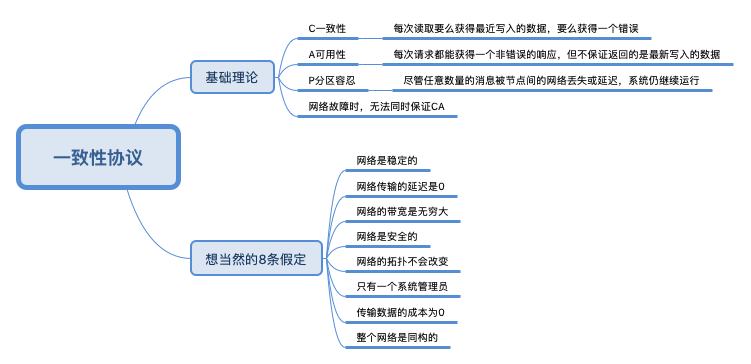
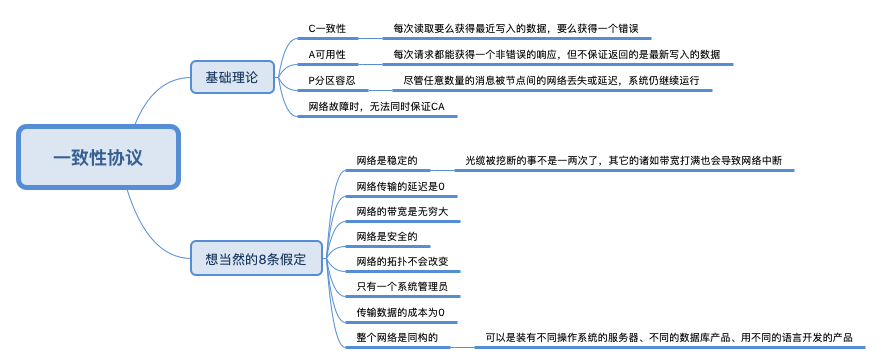
[fix]add doc

diff --git a/_posts/Technology/Distribute/2018-09-27-consistency_protocol.md b/_posts/Technology/Distribute/2018-09-27-consistency_protocol.md
@@ -48,7 +48,7 @@ keywords: 一致性协议
 1. 不是所有的分布式系统都有 cap问题，必须interconnected 和 share data。比如一个简单的微服务系统 没有shar data，便没有cap 问题。
 2. 强调了write/read pair 。这跟上一点是一脉相承的。cap 关注的是对数据的读写操作，而不是分布式系统的所有功能。
 
-## 一致性理论
+## 一致性理论——CAP
 
 以下来自对两个付费专栏的整理
 
@@ -57,8 +57,6 @@ keywords: 一致性协议
 ![](/public/upload/distribute/cap.PNG)
 
 ![](/public/upload/distribute/cap_2.png)
-
-![](/public/upload/distribute/cap_3.PNG)
 
 ### 从0到1学架构
 
@@ -174,19 +172,6 @@ tips
 
 两个算法对cap的侧重有所不同
 
-## 分布式系统中最容易被忽视的六大“暗流”
-
-2018.12.2 补充
-
-[分布式系统中最容易被忽视的六大“暗流”](https://mp.weixin.qq.com/s?__biz=MjM5MDE0Mjc4MA==&mid=2651011259&idx=1&sn=fff6663f391ae5cfc175dceeecb67829&chksm=bdbec0e88ac949fe0cf893306a0a61f27f0355d71a61927bfafb223a6663825c4b27e8a070d4&mpshare=1&scene=23&srcid=1202RkLFVYCNUXsR31Wrdvpq%23rd)
-
-1. 网络并不是可靠的，光缆被挖断的事件相信你也看到过不是一两次了，其它的诸如带宽打满 也会导致网络中断
-2. 不同节点之间的通信是存在延迟的。由此可得，并不是将一个集中式系统拆分得越散，系统就越快。当中存在的延迟，不容忽视。如果是基于提速为目的的拆分，必须支持并行处理。
-3. 带宽是有上限的
-4. 分布式并不直接意味着是“敏捷”了,拆分后需要做的额外工作（比如：监控告警系统、配置中心、服务发现，以及批量部署、持续集成，甚至 DevOps 等）如果没做好，可能会导致不是更快，而是更慢。
-5. 数据由一份冗余成多份后如何保持一致。由第二点导致。这个概念在软件领域被定义为「数据一致性」。
-6. 整个系统的不同部分可能是异构的。可以是装有不同操作系统的服务器、不同的数据库产品、用不同的语言开发的产品等等。你要思考如何通过专制的方式进行标准化，来屏蔽这些差异带来的复杂度影响，使得有更多的精力投入到有价值的地方去。
-	
 
 ## 从容错性强弱的角度来串一下一致性协议
 

diff --git a/_posts/Technology/Distribute/2018-04-16-learn_distributed_system.md b/_posts/Technology/Distribute/2018-04-16-learn_distributed_system.md
@@ -93,9 +93,6 @@ keywords: 分布式系统
 2. 有的计算 逻辑在一个节点即可执行完毕，比如不涉及分区的spark rdd，或分布式运行一个shell。有的计算逻辑则 拆分到不同节点，比如storm和mapreduce，“分段”执行。此时系统就要做好 调度和协调。
 3. 分布式系统，总是要涉及到输入源数据的读取、数据在节点间流转、将结果写到输出端。
 
-## 学习分布式的正确姿势（old）
-
-2018.7.16 补充 [漫谈分布式系统、拜占庭将军问题与区块链](http://zhangtielei.com/posts/blog-consensus-byzantine-and-blockchain.html) 作者阐述了分布式系统的核心问题和概念，沿着逻辑上前后一贯的思路，讨论了区块链技术。推荐阅读。
 
 ### 不要沉迷与具体的算法
 
@@ -105,29 +102,5 @@ My response of old might have been “well, here’s the FLP paper, and here’s
 
 也就是说，具体学习某一个分布式算法用处有限。一个很难理解，一个是你很难  place them in contex（它们在解决分布式问题中的作用）。
 
-## 分布式知识体系
 
-[distributed-systems-theory-for-the-distributed-systems-engineer](http://the-paper-trail.org/blog/distributed-systems-theory-for-the-distributed-systems-engineer/) 
-
-1. Many difficulties that the distributed systems engineer faces can be blamed on two underlying causes:
-
-	* processes may fail
-	* there is no good way to tell that they have done so
-
-2. The basic tension of fault tolerance。fault 有两种级别
-
-	* 节点失效
-	* 节点返回错误数据（对应拜占庭将军问题中的 叛徒）
-3. basic primitives
-
-	* Leader election
-	* Consistent snapshotting
-	* Consensus
-	* Distributed state machine replication
-
-	
-问题就是，你如何将 一致性、共识 这些概念 place 到 分布式的 context中。
-
-
-![](/public/upload/architecture/distributed_system.png)
 

diff --git a/_posts/Architecture/2017-10-28-renshi.md b/_posts/Architecture/2017-10-28-renshi.md
@@ -10,6 +10,9 @@ keywords: push
 
 ## 简介
 
+* TOC
+{:toc}
+
 ## 基础知识
 
 操作系统，磁盘，网络，体系结构思想（比如分层）
@@ -46,6 +49,12 @@ keywords: push
 
 这里的后端基础设施主要指的是应用在线上稳定运行需要依赖的关键组件/服务等。开发或者搭建好以上的后端基础设施，一般情况下是能够支撑很长一段时间内的业务的。此外，对于一个完整的架构来说，还有很多应用感知不到的系统基础服务，如负载均衡、自动化部署、系统安全等
 
+### 并发读写
+
+《软件架构设计》要让各式各样的业务功能与逻辑最终在计算机系统里实现，只能通过两种操作：读和写。PS：[并发读写是线程安全的核心问题](http://qiankunli.github.io/2014/10/09/Threads.html)
+
+![](/public/upload/architecture/high_concurrency.png)
+
 ## 业务架构
 
 ### 典型/非典型架构
@@ -57,13 +66,7 @@ keywords: push
 	
 2. 非典型架构：[秒杀，推送，广告，推荐，计数-互联网非典型业务系统架构设计](http://www.10tiao.com/html/249/201709/2651960426/1.html)
 
-### 并发读写
-
-《软件架构设计》要让各式各样的业务功能与逻辑最终在计算机系统里实现，只能通过两种操作：读和写。PS：[并发读写是线程安全的核心问题](http://qiankunli.github.io/2014/10/09/Threads.html)
-
-![](/public/upload/architecture/high_concurrency.png)
-
-### 设计
+### 通用设计
 
 1. 满足业务需求
 2. 解耦 [为什么说解耦的战术，决定了架构的高度？](http://www.sohu.com/a/204009990_411876)
